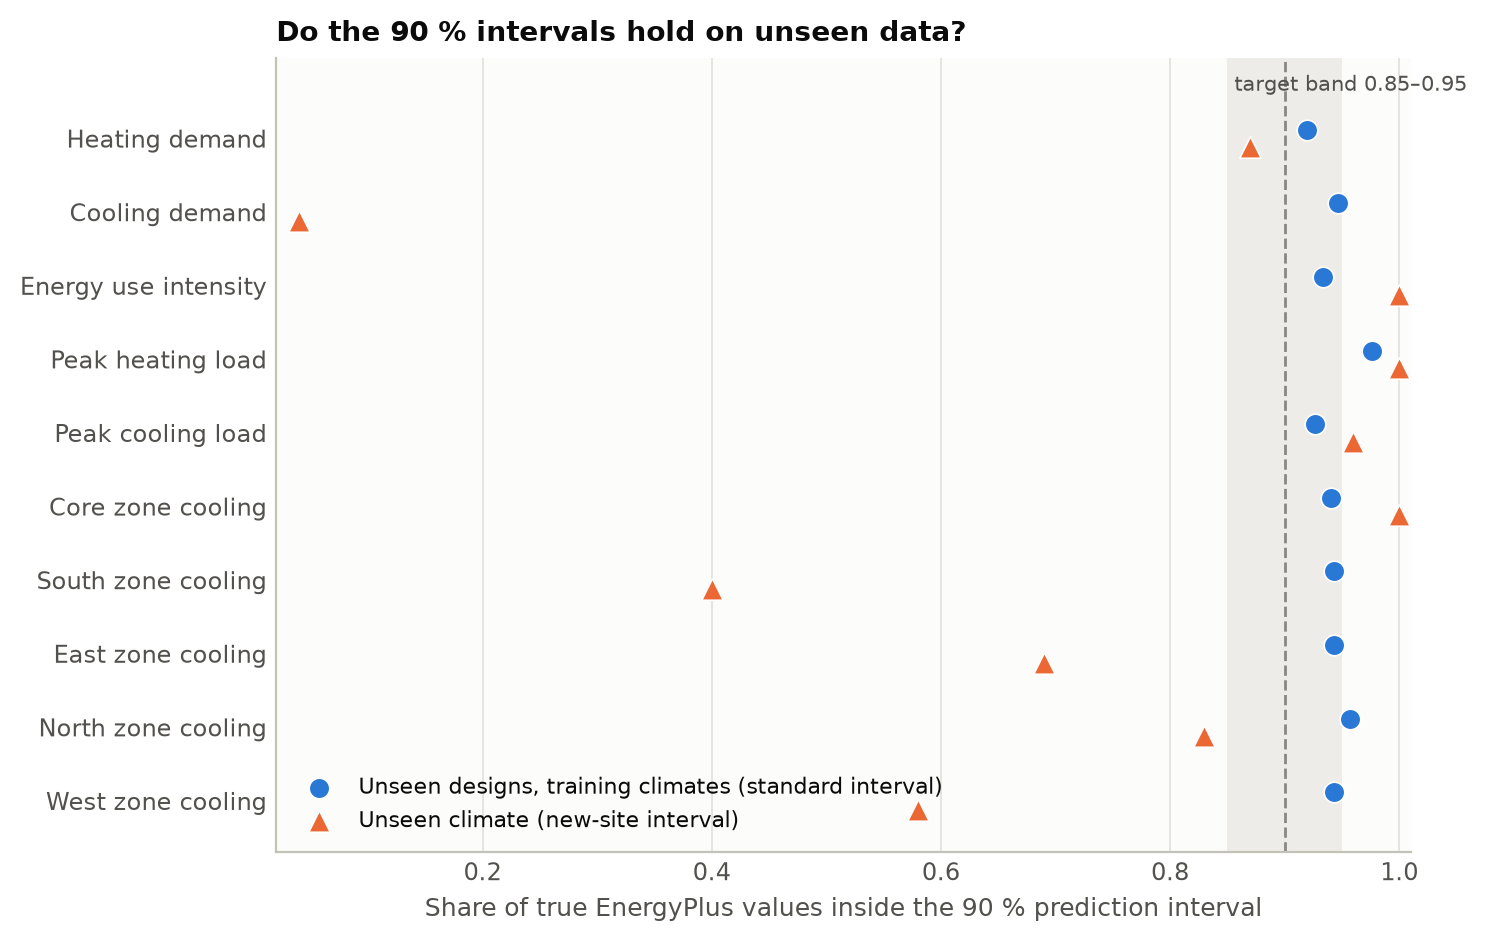
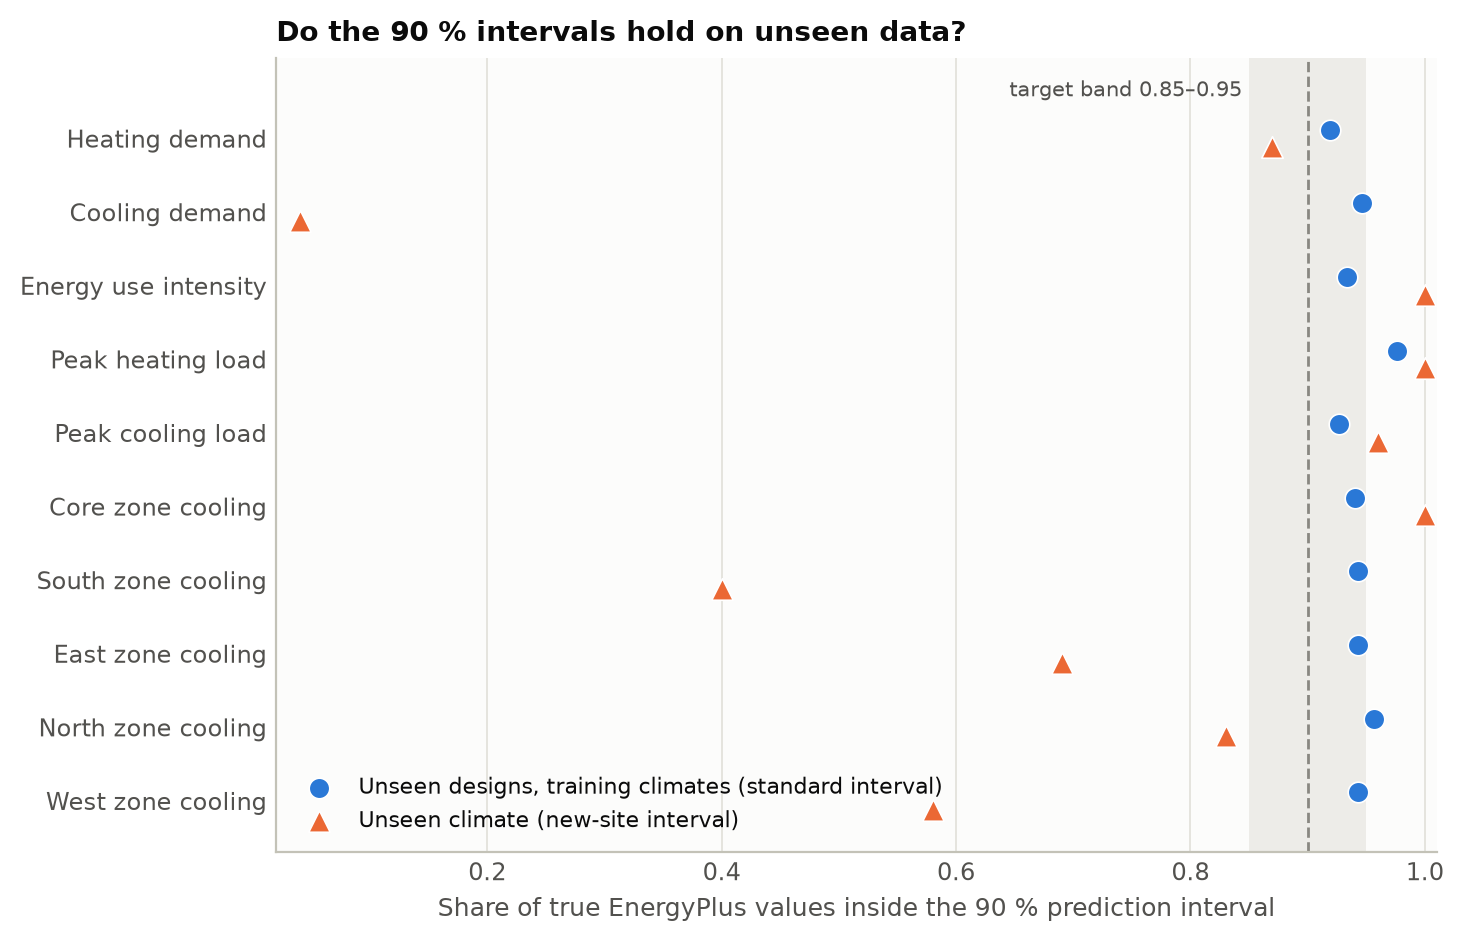
3.7 step 7: coverage figure label fix; figures regenerated

diff --git a/surrogate/final_figures.py b/surrogate/final_figures.py
@@ -179,7 +179,8 @@ def fig_coverage(d: Path, r: dict, dev: bool):
     ax.scatter(cl.loc[ALL_TARGETS, "coverage_90"], y - 0.12, s=60, marker=PART["london"][1],
                facecolor=SERIES[1], edgecolor="white", linewidth=0.6, zorder=3,
                label=("Unseen climate" if not dev else f"DEV: {r['new_site']}") + " (new-site interval)")
-    ax.text(band[0], len(ALL_TARGETS) - 0.35, f" target band {band[0]:.2f}–{band[1]:.2f}", fontsize=7.5, color=INK2)
+    ax.text(band[0] - 0.006, len(ALL_TARGETS) - 0.35, f"target band {band[0]:.2f}–{band[1]:.2f}", fontsize=7.5,
+            color=INK2, ha="right", va="center")
     ax.set_yticks(y, [NAME[t] for t in ALL_TARGETS])
     lo = min(0.70, float(np.nanmin(np.r_[ci["coverage_90"], cl["coverage_90"]])) - 0.02)
     ax.set_xlim(lo, 1.01)
